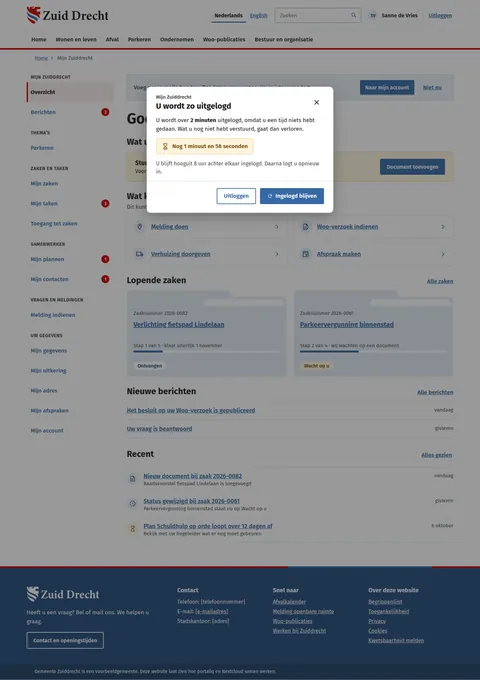
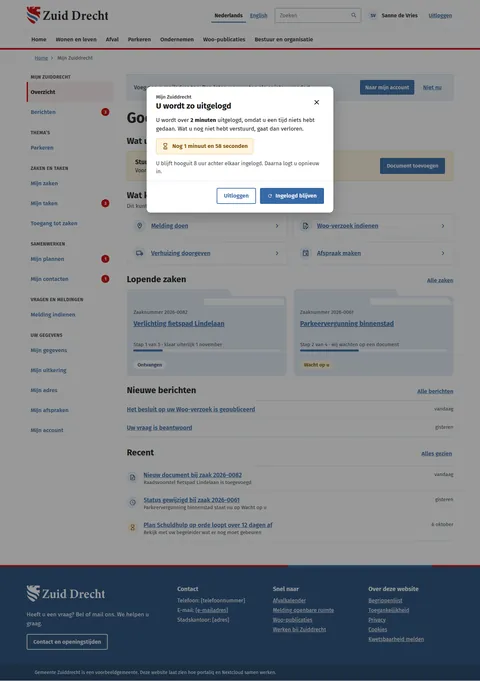
fix(screens): SessieVerloopt is built from its current source
The built SessieVerloopt board on main no longer matched its source, so
compdiff refused it as stale. Rebuilt with build.py --only SessieVerloopt:
the greeting takes the site titles' 1.15 leading, the footer logo and the
"Contact en openingstijden" link take the sizes the other site boards
already draw. Height 2039 -> 2044. No source change.

Assisted-by: ClaudeCode:claude-opus-5-5

diff --git a/preview/screens/boards/SessieVerloopt.html b/preview/screens/boards/SessieVerloopt.html
@@ -181,7 +181,7 @@ footer a{color:#ffffff}footer a:hover{color:#dfe8f3}
         <a href="#" style="display: inline-flex; align-items: center; height: 44px; padding: 0 16px; border-radius: 4px; background: var(--sc-primary, #3669a5); color: #ffffff; font-weight: 600; text-decoration: none">Naar mijn account</a>
         <button type="button" style="height: 44px; padding: 0 14px; border: 0; background: transparent; color: var(--sc-primary, #3669a5); font: 600 17px var(--sc-font, 'Fira Sans'), sans-serif; text-decoration: underline">Niet nu</button>
       </div>
-      <h1 style="margin: 0; font-size: 44px; font-weight: 700">Goedemiddag, Sanne</h1>
+      <h1 style="margin: 0; font-size: 44px; font-weight: 700; line-height: 1.15">Goedemiddag, Sanne</h1>
       <section aria-labelledby="tedoen" style="display: flex; flex-direction: column; gap: 14px">
         <h2 id="tedoen" style="margin: 0; font-size: 26px; font-weight: 700">Wat u nog moet doen</h2>
         <div style="display: flex; flex-wrap: wrap; gap: 16px 24px; align-items: center; justify-content: space-between; padding: 20px 24px; border-radius: 6px; background: #fff4de; border: 1px solid #e8c77d">
@@ -271,9 +271,9 @@ footer a{color:#ffffff}footer a:hover{color:#dfe8f3}
   </div>
   <div style="max-width: 1280px; margin: 0 auto; padding: 56px 24px 44px; display: flex; flex-wrap: wrap; gap: 40px 72px">
     <div style="flex: 1 1 300px; max-width: 380px; display: flex; flex-direction: column; gap: 18px">
-      <img src="../assets/zuiddrecht/logo-wit.svg" alt="Gemeente Zuiddrecht" style="height: 46px; width: auto; align-self: flex-start" data-sc-logo="logo-wit">
+      <img src="../assets/zuiddrecht/logo-wit.svg" alt="Gemeente Zuiddrecht" style="height: 50px; width: auto; align-self: flex-start; margin-bottom: 6px" data-sc-logo="logo-wit">
       <p style="margin: 0; font-size: 17px; line-height: 1.6">Heeft u een vraag? Bel of mail ons. We helpen u graag.</p>
-      <a href="Contentpagina.html" style="align-self: flex-start; display: inline-flex; align-items: center; height: 46px; padding: 0 18px; border: 2px solid #ffffff; border-radius: 4px; font-weight: 600; text-decoration: none">Contact en openingstijden</a>
+      <a href="Contentpagina.html" style="align-self: flex-start; display: inline-flex; align-items: center; height: 43.5px; padding: 0 18px; border: 2px solid #ffffff; border-radius: 4px; font-size: 17px; font-weight: 600; text-decoration: none">Contact en openingstijden</a>
     </div>
     <div style="flex: 2 1 480px; display: grid; grid-template-columns: repeat(auto-fit, minmax(200px, 1fr)); gap: 32px">
       <div>
